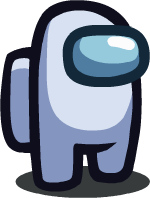
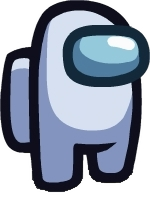
style: remove character shadows on images, align color Labels on the whole image width

diff --git a/MainWindow.xaml b/MainWindow.xaml
@@ -91,9 +91,9 @@
                VerticalContentAlignment="Center"
                FontSize="28"
                HorizontalAlignment="Left"
-               Margin="32,241,0,0"
+               Margin="24,241,0,0"
                VerticalAlignment="Top"
-               Width="92"/>
+               Width="100"/>
 
         <!-- Blue character: #132ED2 -->
         <Border Height="100"
@@ -145,9 +145,9 @@
                VerticalContentAlignment="Center"
                FontSize="28"
                HorizontalAlignment="Left"
-               Margin="162,241,0,0"
+               Margin="154,241,0,0"
                VerticalAlignment="Top"
-               Width="92"/>
+               Width="100"/>
 
         <!-- Green character: #11802D -->
         <Border Height="100"
@@ -199,9 +199,9 @@
                VerticalContentAlignment="Center"
                FontSize="28"
                HorizontalAlignment="Left"
-               Margin="292,241,0,0"
+               Margin="284,241,0,0"
                VerticalAlignment="Top"
-               Width="92"/>
+               Width="100"/>
 
         <!-- Pink character: #EE54BB -->
         <Border Height="100"
@@ -253,9 +253,9 @@
                VerticalContentAlignment="Center"
                FontSize="28"
                HorizontalAlignment="Left"
-               Margin="422,241,0,0"
+               Margin="414,241,0,0"
                VerticalAlignment="Top"
-               Width="92"/>
+               Width="100"/>
 
         <!-- Orange character: #F07D0D -->
         <Border Height="100"
@@ -307,9 +307,9 @@
                VerticalContentAlignment="Center"
                FontSize="28"
                HorizontalAlignment="Left"
-               Margin="552,241,0,0"
+               Margin="544,241,0,0"
                VerticalAlignment="Top"
-               Width="92"/>
+               Width="100"/>
 
         <!-- Yellow character: #F6F657 -->
         <Border Height="100"
@@ -361,9 +361,9 @@
                VerticalContentAlignment="Center"
                FontSize="28"
                HorizontalAlignment="Left"
-               Margin="682,241,0,0"
+               Margin="674,241,0,0"
                VerticalAlignment="Top"
-               Width="92"/>
+               Width="100"/>
 
         <!-- Black character: #3F474E -->
         <Border Height="100"
@@ -414,9 +414,9 @@
                VerticalContentAlignment="Center"
                FontSize="28"
                HorizontalAlignment="Left"
-               Margin="32,450,0,0"
+               Margin="24,450,0,0"
                VerticalAlignment="Top"
-               Width="92"/>
+               Width="100"/>
 
         <!-- White character: #D7E1F1 -->
         <Border Height="100"
@@ -468,9 +468,9 @@
                VerticalContentAlignment="Center"
                FontSize="28"
                HorizontalAlignment="Left"
-               Margin="162,450,0,0"
+               Margin="154,450,0,0"
                VerticalAlignment="Top"
-               Width="92"/>
+               Width="100"/>
 
         <!-- Purple character: #6B2FBC -->
         <Border Height="100"
@@ -522,9 +522,9 @@
                VerticalContentAlignment="Center"
                FontSize="28"
                HorizontalAlignment="Left"
-               Margin="292,450,0,0"
+               Margin="284,450,0,0"
                VerticalAlignment="Top"
-               Width="92"/>
+               Width="100"/>
 
         <!-- Brown character: #71491E -->
         <Border Height="100"
@@ -576,9 +576,9 @@
                VerticalContentAlignment="Center"
                FontSize="28"
                HorizontalAlignment="Left"
-               Margin="422,450,0,0"
+               Margin="414,450,0,0"
                VerticalAlignment="Top"
-               Width="92"/>
+               Width="100"/>
 
         <!-- Cyan character: #38E2DD -->
         <Border Height="100"
@@ -630,9 +630,9 @@
                VerticalContentAlignment="Center"
                FontSize="28"
                HorizontalAlignment="Left"
-               Margin="552,450,0,0"
+               Margin="544,450,0,0"
                VerticalAlignment="Top"
-               Width="92"/>
+               Width="100"/>
 
         <!-- Lime character: #50F039 -->
         <Border Height="100" Width="100" Margin="674,350,26,350">
@@ -681,9 +681,9 @@
                VerticalContentAlignment="Center"
                FontSize="28"
                HorizontalAlignment="Left"
-               Margin="682,450,0,0"
+               Margin="674,450,0,0"
                VerticalAlignment="Top"
-               Width="92"/>
+               Width="100"/>
 
         <!-- Maroon character: #6B2B3C -->
         <Border Height="100"
@@ -735,9 +735,9 @@
                VerticalContentAlignment="Center"
                FontSize="28"
                HorizontalAlignment="Left"
-               Margin="32,659,0,0"
+               Margin="24,659,0,0"
                VerticalAlignment="Top"
-               Width="92"/>
+               Width="100"/>
 
         <!-- Rose character: #ECC0D3 -->
         <Border Height="100"
@@ -789,9 +789,9 @@
                VerticalContentAlignment="Center"
                FontSize="28"
                HorizontalAlignment="Left"
-               Margin="162,659,0,0"
+               Margin="154,659,0,0"
                VerticalAlignment="Top"
-               Width="92"/>
+               Width="100"/>
 
         <!-- Banana character: #FFFEBE -->
         <Border Height="100"
@@ -843,9 +843,9 @@
                VerticalContentAlignment="Center"
                FontSize="28"
                HorizontalAlignment="Left"
-               Margin="292,659,0,0"
+               Margin="284,659,0,0"
                VerticalAlignment="Top"
-               Width="92"/>
+               Width="100"/>
 
         <!-- Gray character: #708495 -->
         <Border Height="100"
@@ -897,9 +897,9 @@
                VerticalContentAlignment="Center"
                FontSize="28"
                HorizontalAlignment="Left"
-               Margin="422,659,0,0"
+               Margin="414,659,0,0"
                VerticalAlignment="Top"
-               Width="92"/>
+               Width="100"/>
 
         <!-- Tan character: #928776 -->
         <Border Height="100"
@@ -951,9 +951,9 @@
                VerticalContentAlignment="Center"
                FontSize="28"
                HorizontalAlignment="Left"
-               Margin="552,659,0,0"
+               Margin="544,659,0,0"
                VerticalAlignment="Top"
-               Width="92"/>
+               Width="100"/>
 
         <!-- Coral character: #EC7578 -->
         <Border Height="100"
@@ -1005,9 +1005,9 @@
                VerticalContentAlignment="Center"
                FontSize="28"
                HorizontalAlignment="Left"
-               Margin="682,659,0,0"
+               Margin="674,659,0,0"
                VerticalAlignment="Top"
-               Width="92"/>
+               Width="100"/>
 
 
         <!-- Stats Label -->
